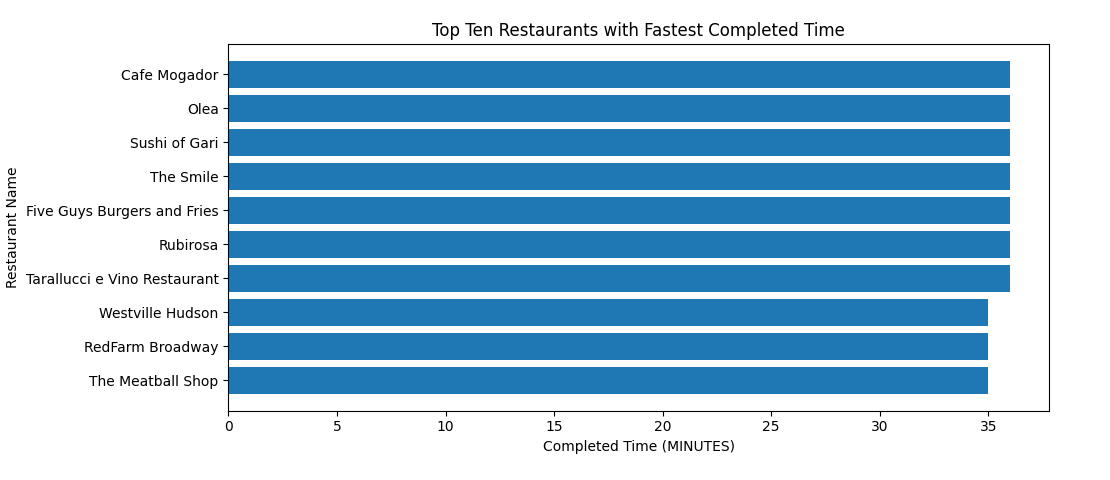
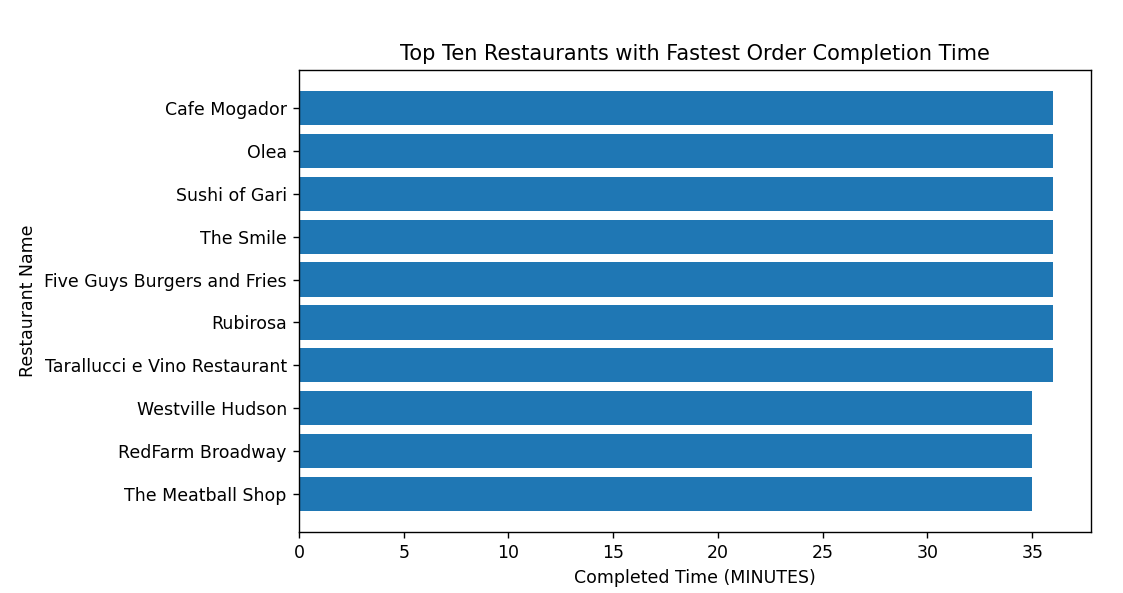
menambah completion time

diff --git a/README.md b/README.md
@@ -268,3 +268,33 @@ plt.show()
 ![graph_fast_prep](pic/graphic%20fastest%20preparation%20(17).png)
 
 Dari hasil diatas dapat disimpulkan untuk waktu tercepat proses persiapan masakan adalah 20 menit dan ke 10 restoran tersebut memiliki waktu hidangan tercepat 20 menit.
+
+---
+
+"Mencari Restoran Dengan Waktu Menyelesaikan Pesanan Tercepat"
+
+Sebelumnya saya sudah membuat kolom order_completion_time, dimana pada kolom ini berisi jumlah waktu dari kolom food_preparation_time dan delivery_time. Selanjutnya saya akan mencari restoran apa yang memiliki waktu proses tercepat mulai dari makanan disiapkan hingga makanan diantarkan. Untuk kodenya sebagai berikut:
+
+```
+#Mencari restorang dengan waktu penyelesaian pesanan tercepat
+df_sorted = df.sort_values(by='order_completion_time', ascending=True)[['restaurant_name','order_completion_time']]
+df_unique = df_sorted.drop_duplicates(subset='restaurant_name', keep='first') 
+top_ten = df_unique.head(10)
+print(top_ten)
+
+#Membuat diagram
+plt.barh(top_ten['restaurant_name'], top_ten['order_completion_time'])
+plt.xlabel('Completed Time (MINUTES)')
+plt.ylabel('Restaurant Name')
+plt.title('Top Ten Restaurants with Fastest Order Completion Time')
+plt.show()
+```
+![sort_completion](pic/check%20completed%20time%20(18).png)
+![graph_completion](pic/graphic%20completed%20time%20(19).png)
+
+Dari hasil pencarian diatas saya mengambil 10 restoran yang menyeselasikan pesanan tercepat dan dapat disimpulkan bahwa The Meatball Shop, RedFarm Broadway, Westville Hudson merupakan restoran dengan penyelesaian pesanan tercepat yaitu 35 menit, dan diikuti oleh Tarallucci e Vino Restaurant, Rubirosa, Five Guys Burgers and Fries, The Smile, Sushi of Gari, Olea, Cafe Mogador dengan waktu 36 menit.
+
+---
+
+`contoh` 
+``contoh 2``
